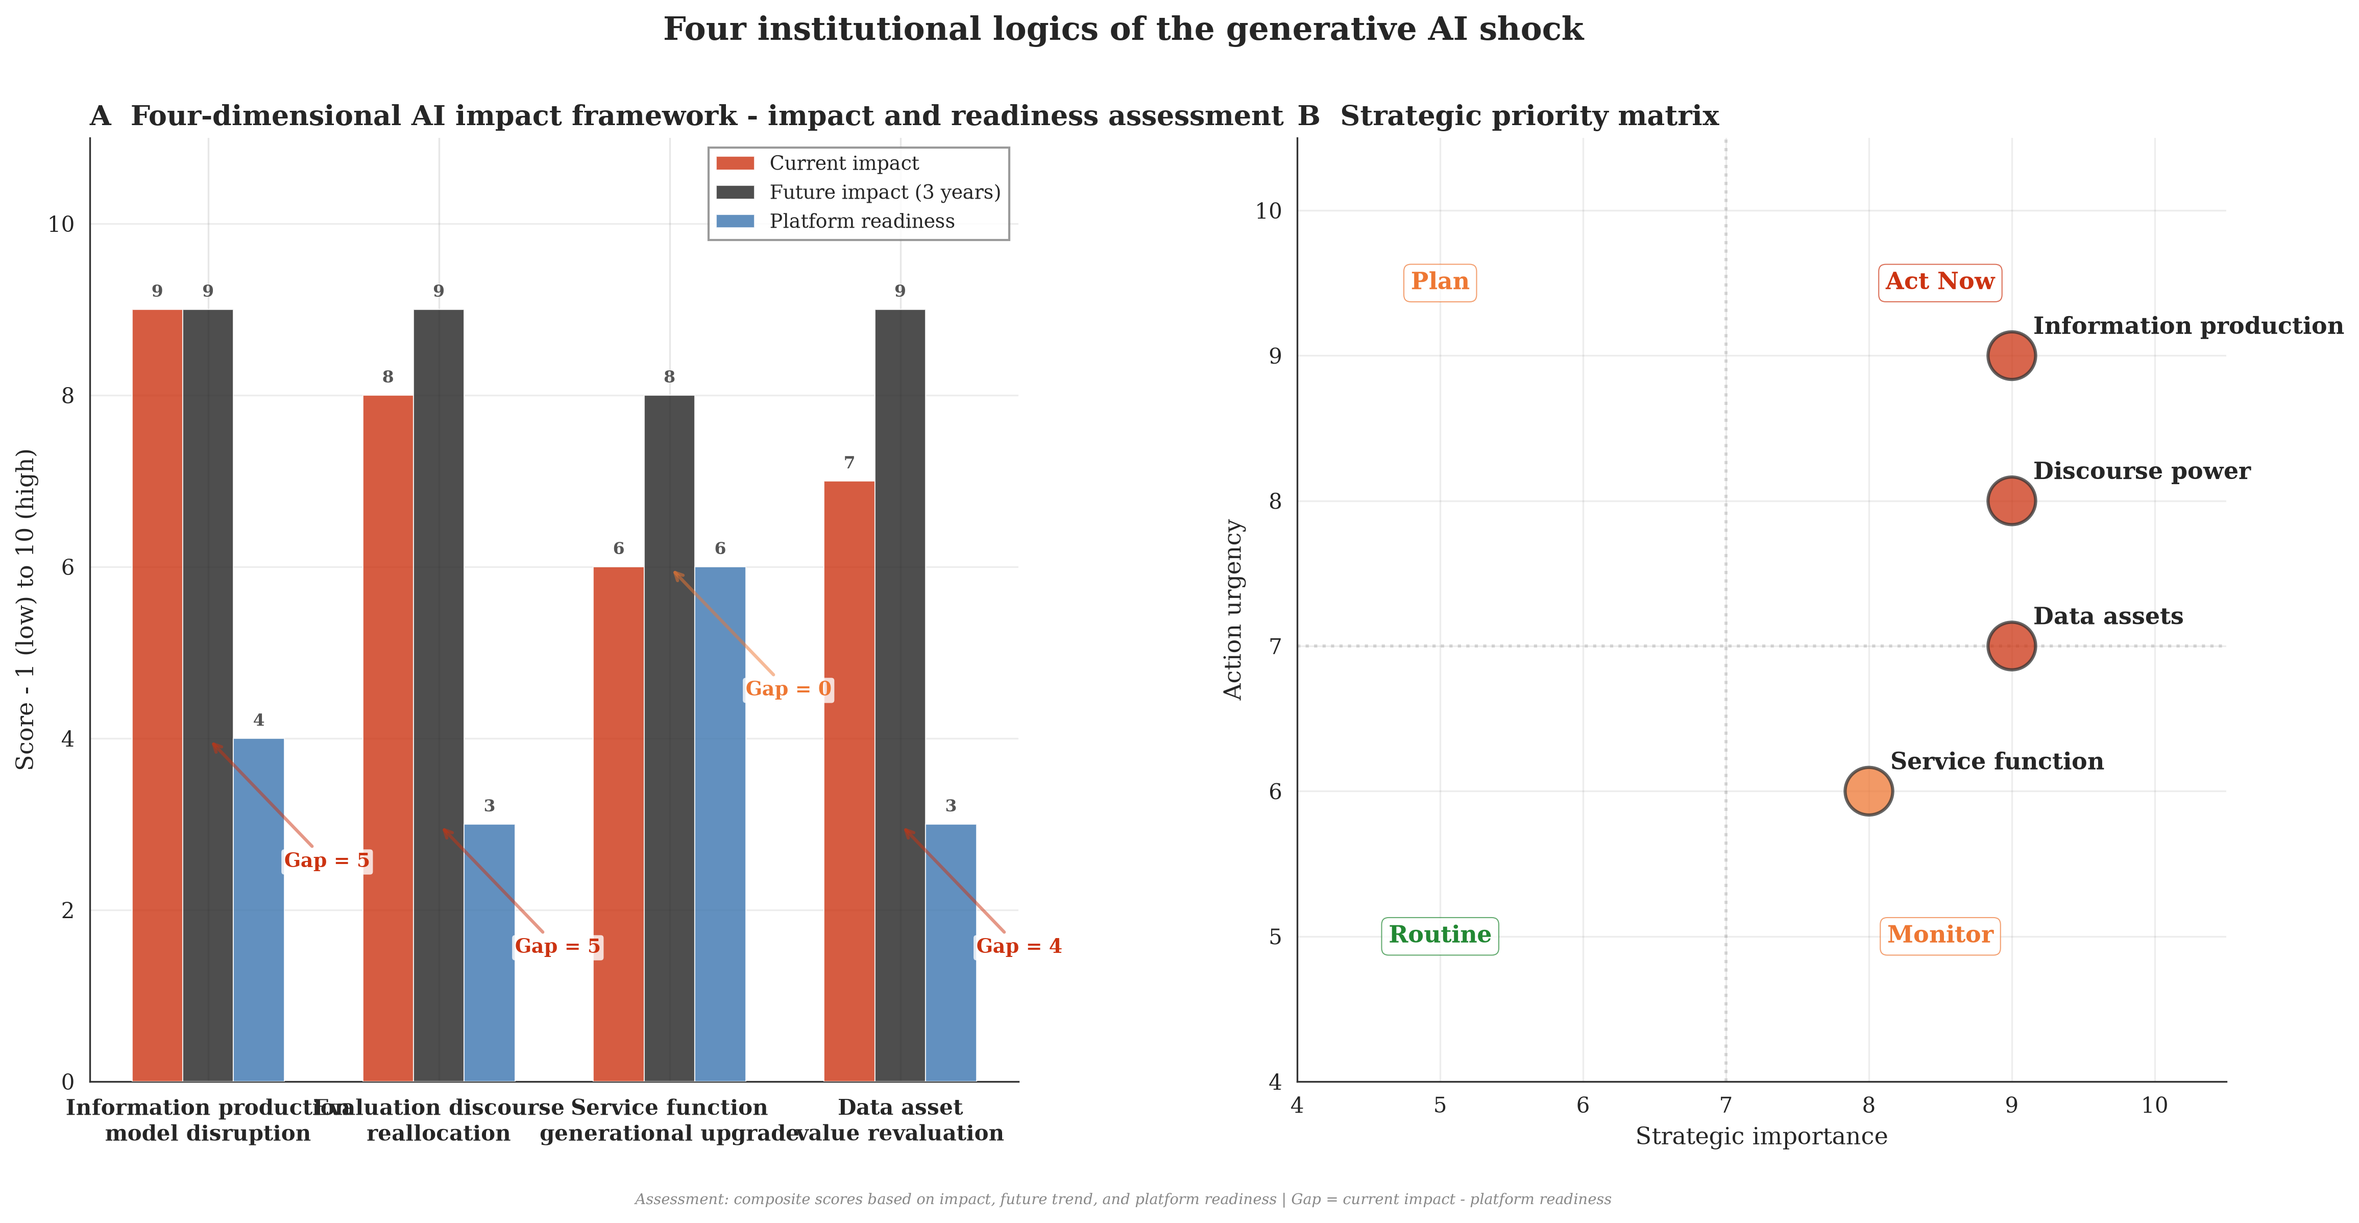
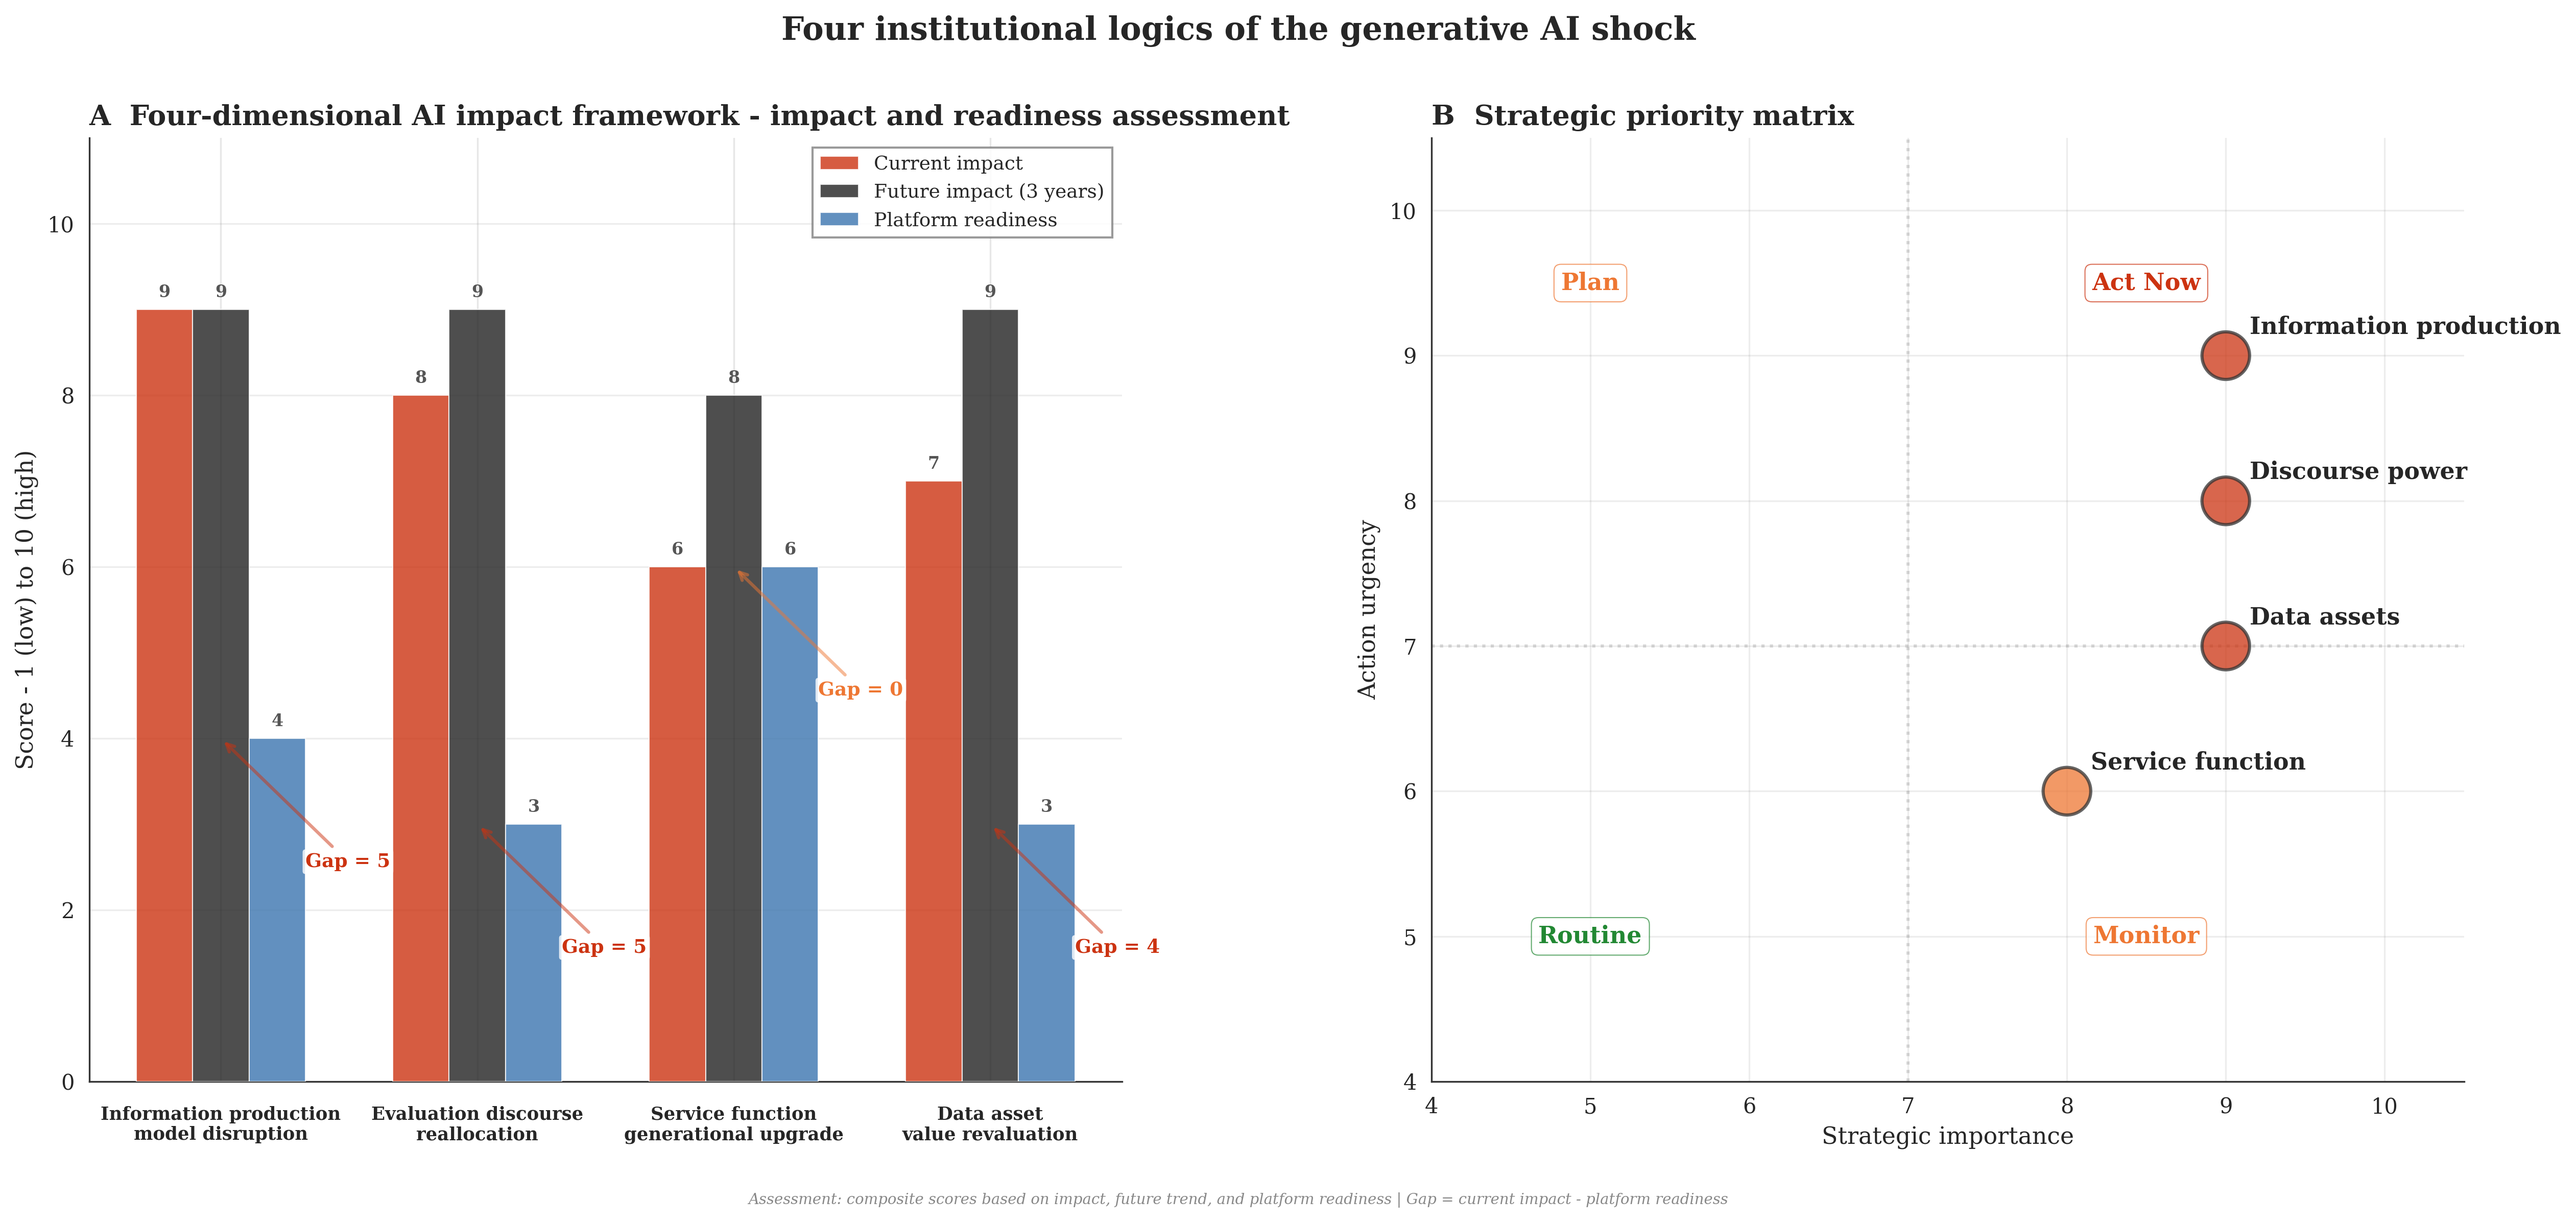
Figures Refined

diff --git a/src/visualization.py b/src/visualization.py
@@ -281,9 +281,13 @@ def plot_structural_break(
                  bbox=dict(boxstyle="round,pad=0.2", facecolor="white",
                            alpha=0.8))
 
+    # Add headroom so the max-|CUSUM| annotation never collides with the title
+    ymin_c, ymax_c = ax3.get_ylim()
+    ax3.set_ylim(ymin_c, max(ymax_c, max_cusum + 2.2))
+
     ax3.set_xlabel("Date", fontsize=11)
     ax3.set_ylabel("CUSUM statistic", fontsize=11)
-    ax3.set_title(f"C  Cumulative sum (CUSUM) test - threshold +/-{cusum_threshold} (95% confidence level)",
+    ax3.set_title(f"C  CUSUM test - threshold +/-{cusum_threshold} (95% Confidence Level)",
                   fontsize=13, fontweight="bold", loc="left")
     ax3.legend(loc="upper right", fontsize=8,
                handles=[
@@ -755,7 +759,7 @@ def plot_four_dimensions(save: bool = True) -> plt.Figure:
     future_scores = [9, 9, 8, 9]
     readiness = [4, 3, 6, 3]
 
-    fig = plt.figure(figsize=(18, 8))
+    fig = plt.figure(figsize=(20, 8))
     gs = GridSpec(1, 2, figure=fig, width_ratios=[1, 1], wspace=0.3)
 
     ax1 = fig.add_subplot(gs[0])
@@ -776,7 +780,8 @@ def plot_four_dimensions(save: bool = True) -> plt.Figure:
                     edgecolor="white", linewidth=0.5, zorder=3)
 
     ax1.set_xticks(x)
-    ax1.set_xticklabels(dimensions, fontsize=10, fontweight="bold")
+    ax1.set_xticklabels(dimensions, fontsize=8.5, fontweight="bold")
+    ax1.tick_params(axis="x", pad=8)
     ax1.set_ylabel("Score - 1 (low) to 10 (high)", fontsize=11)
     ax1.set_title("A  Four-dimensional AI impact framework - impact and readiness assessment",
                   fontsize=13, fontweight="bold", loc="left")
@@ -844,7 +849,7 @@ def plot_four_dimensions(save: bool = True) -> plt.Figure:
 
     fig.suptitle("Four institutional logics of the generative AI shock",
                  fontsize=15, fontweight="bold", y=0.98)
-    plt.tight_layout(rect=[0, 0.03, 1, 0.95])
+    plt.tight_layout(rect=[0, 0.05, 1, 0.95])
 
     if save:
         return _save_figure(fig, FILES["figure_four_dimensions"])
